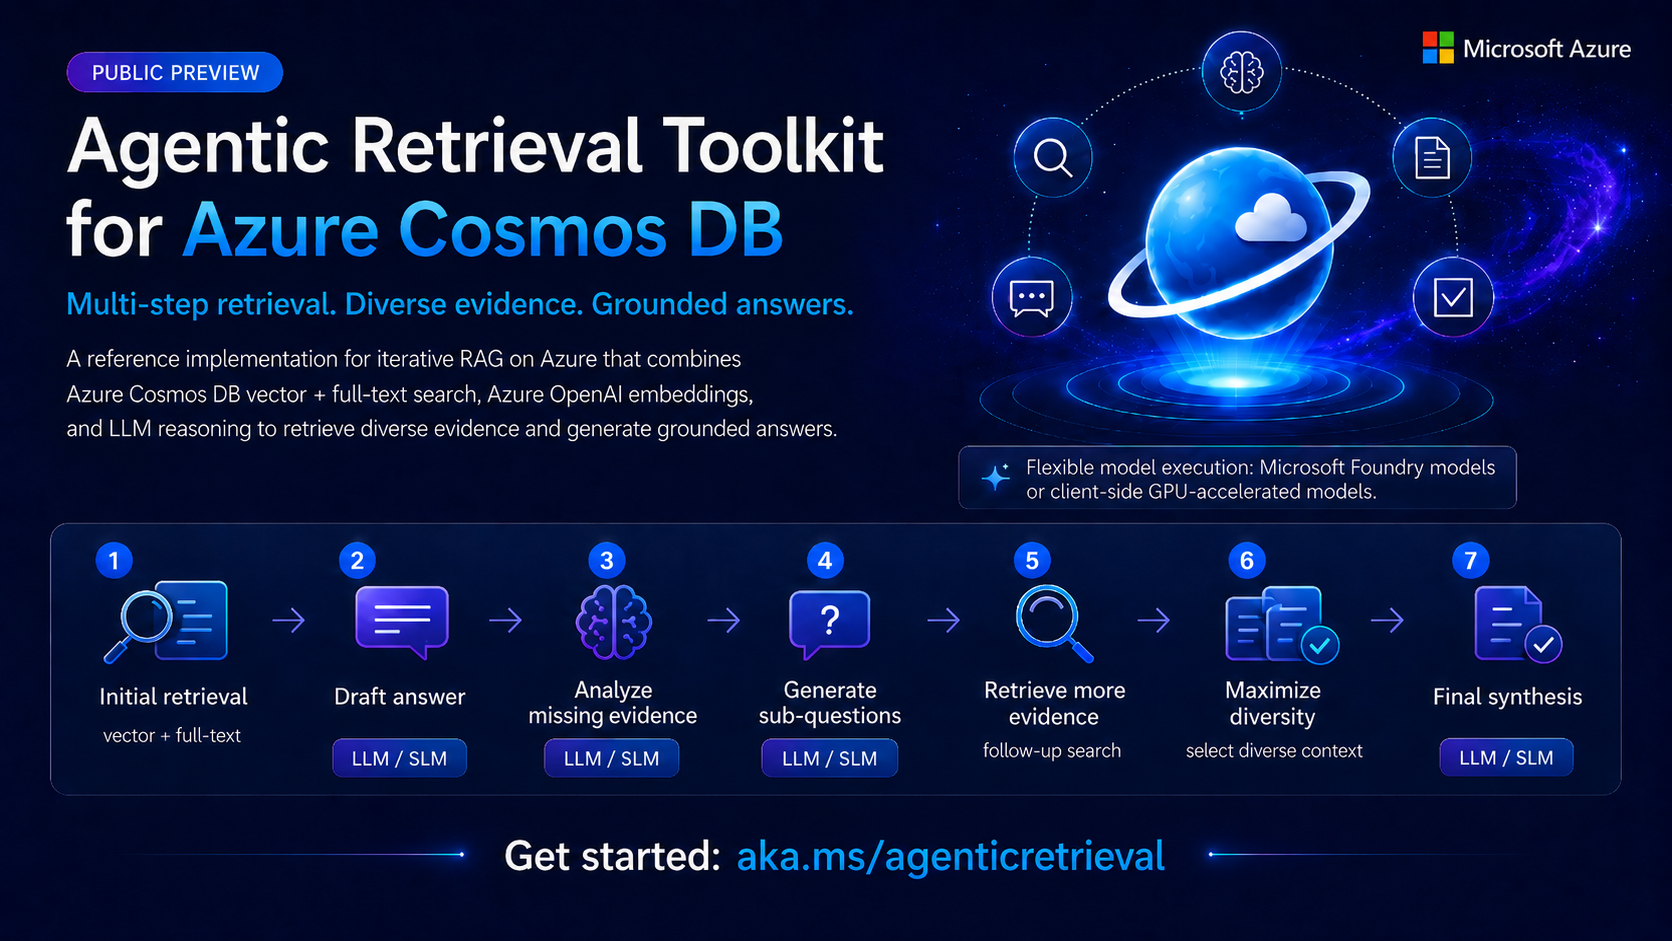
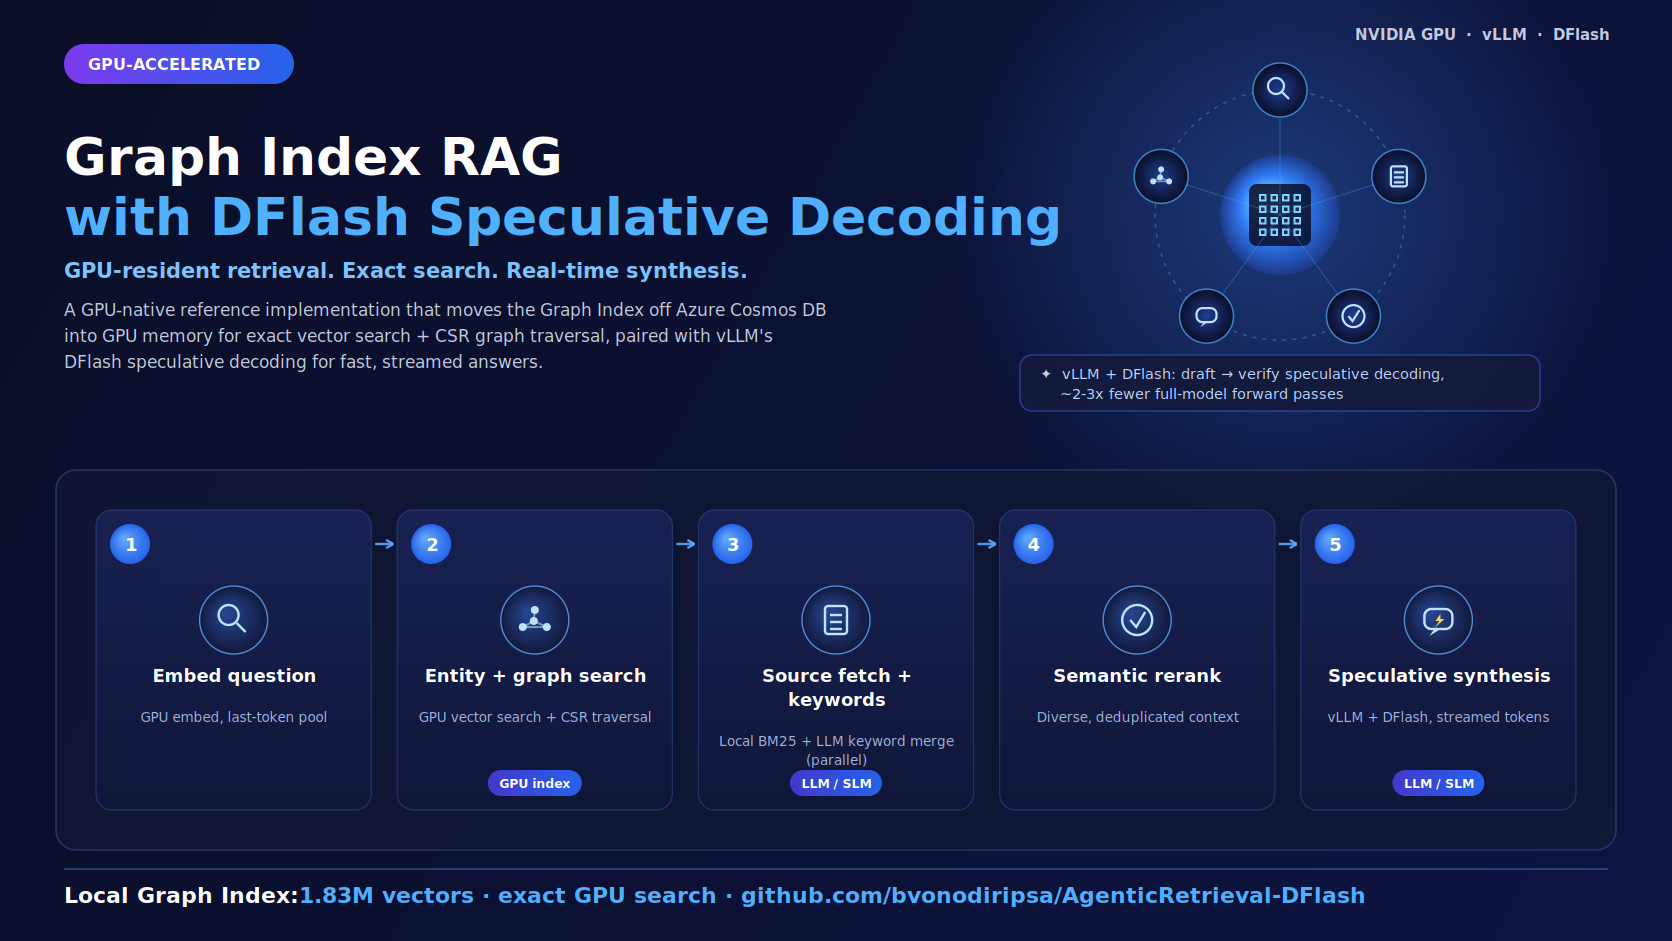
Redraw the overview diagram for the current GI-RAG + DFlash pipeline
The old image was the upstream AgenticRetrieval toolkit's 7-step
decomposed-RAG banner (Cosmos DB vector+full-text, draft/analyze/
sub-question iterations). Replace it with a diagram of what this repo
actually does: GPU embed -> entity/graph search on the local GPU-
resident index -> BM25 + LLM keyword merge -> semantic rerank ->
single-pass DFlash speculative-decoding synthesis.

Also fix stale "mean-pool" doc/comment references left over from the
last-token-pooling embedding fix (ARCHITECTURE.md, README.md,
config.yaml.example) and update rebuild_embeddings.py, the Cosmos DB
re-upload script, to use the same corrected last-token pooling so it
doesn't reintroduce the bug into Cosmos DB if run.

diff --git a/rebuild_embeddings.py b/rebuild_embeddings.py
@@ -14,22 +14,30 @@ EMBED_DIM = 1024
 UPLOAD_BATCH = 20
 
 print(f"Loading {MODEL_ID} on GPU...", flush=True)
-tokenizer = AutoTokenizer.from_pretrained(MODEL_ID, trust_remote_code=True)
+# Left padding is required for last-token pooling: it makes "last token =
+# index -1" true for every row in a batch regardless of that row's own
+# length. See EMBEDDING_FIX.md -- mean pooling (the old approach here)
+# throws away most of Qwen3-Embedding's contrastive fine-tuning, which reads
+# the embedding off the *last* token's hidden state.
+tokenizer = AutoTokenizer.from_pretrained(MODEL_ID, trust_remote_code=True, padding_side="left")
 model = AutoModel.from_pretrained(MODEL_ID, trust_remote_code=True, torch_dtype=torch.float32)
 model = model.cuda(0)  # Use GPU 1 (GPU 0 is used more by vLLM)
 model.eval()
 print("Model loaded on GPU.", flush=True)
 
 def embed_batch(texts: list[str]) -> list[list[float]]:
-    """Embed a batch of texts using mean pooling + L2 normalize on GPU."""
+    """Embed a batch of texts using last-token pooling + L2 normalize on GPU.
+
+    Document/description text only -- no query instruction prefix here, to
+    match how queries are embedded at retrieval time (see gi_builder.py's
+    `is_query` parameter and `_QUERY_INSTRUCTION`).
+    """
     inputs = tokenizer(texts, return_tensors="pt", padding=True, truncation=True, max_length=512)
     inputs = {k: v.cuda(0) for k, v in inputs.items()}
     with torch.inference_mode():
         outputs = model(**inputs)
-        attention_mask = inputs["attention_mask"].unsqueeze(-1).float()
-        token_embs = outputs.last_hidden_state.float() * attention_mask
-        emb = token_embs.sum(dim=1) / attention_mask.sum(dim=1).clamp(min=1e-9)
-        emb = torch.nn.functional.normalize(emb, p=2, dim=1)
+        emb = outputs.last_hidden_state[:, -1]  # left-padded -> true last token
+        emb = torch.nn.functional.normalize(emb.float(), p=2, dim=1)
     vecs = emb.cpu().tolist()
     return [v[:EMBED_DIM] for v in vecs]
 

diff --git a/ARCHITECTURE.md b/ARCHITECTURE.md
@@ -20,7 +20,7 @@ the tests — not by this app.
 `_dflash_answer()` (non-streaming, `/v1/ask`)
 
 **Code flow** (`api.py`):
-1. `engine._embedder.embed()` — Qwen3-Embedding-0.6B (in-process, mean-pool + L2)
+1. `engine._embedder.embed(question, is_query=True)` — Qwen3-Embedding-0.6B (in-process, last-token pool + L2, query instruction prefix)
 2. **Retrieval + LLM keyword expansion** — parallel via `asyncio.gather`:
    - `retrieval.retrieve(backend, q_emb, cfg)` — entity search, graph
      traversal, triple/food vector search and source fetch, all against
@@ -99,6 +99,6 @@ This produces **identical output** to standard generation (mathematically lossle
 - **Cosmos DB**: account + `food` database from config — containers: `food` (products), `entities`, `triples`; system of record regardless of `index.mode`
 - **Local Graph Index** (optional, `index.mode: local`): GPU-resident snapshot of the same data — see "Retrieval backends" above and `PROGRESS.md`
 - **LLM endpoint**: configurable OpenAI-compatible (local vLLM with DFlash, or a hosted gateway such as GLM-5.2)
-- **Embedding**: Qwen3-Embedding-0.6B, loaded in-process (mean-pool + L2, GPU if available)
+- **Embedding**: Qwen3-Embedding-0.6B, loaded in-process (last-token pool + L2, query instruction prefix, GPU if available; see `EMBEDDING_FIX.md`)
 - **Web UI**: `static/index.html`, FastAPI on port 8080
 - **Vendored upstream**: `external/agenticretrieval` (git-ignored) via `scripts/sync_upstream.*`

diff --git a/README.md b/README.md
@@ -264,8 +264,9 @@ See `config.yaml.example` for full inline documentation of each setting, and
 | `vector_augment_k` | 12 | Extra vector-search products |
 | `max_answer_tokens` | 4096 | Answer budget (covers reasoning tokens) |
 
-Embeddings are computed in-process (Qwen3-Embedding-0.6B, mean-pool + L2, GPU
-if available). The Cosmos DB semantic reranker reorders sources before the
+Embeddings are computed in-process (Qwen3-Embedding-0.6B, last-token pool + L2
+with a query instruction prefix, GPU if available — see `EMBEDDING_FIX.md`).
+The Cosmos DB semantic reranker reorders sources before the
 LLM call; if it is unavailable the pipeline falls back to vector-search
 ordering. Keyword search is LLM-expanded, then run against local BM25 or
 Cosmos `FullTextContains` depending on `index.mode`.
